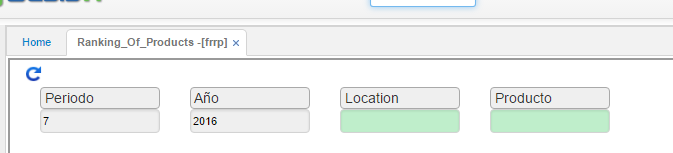
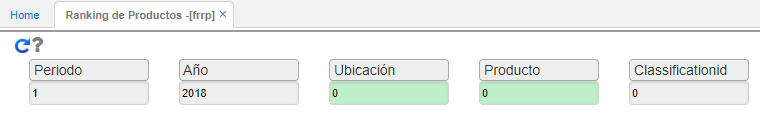
frrp

diff --git a/Operacion/scm/facturacion/freporte/frrp.md b/Operacion/scm/facturacion/freporte/frrp.md
@@ -11,3 +11,14 @@ Esta opción consolida la facturación efectuada en los respectivos periodos o m
 
 ![](frrp1.png)
 
+**Periodo:** si se requiere consultar por periodo, ingresar el mes requerido.  
+**Año:** ingresar el año de consulta.  
+**Ubicación:** ingresar la ubicación de donde se desea consultar los productos.  
+**Producto:** si la consulta es específica de un producto, ingresar o seleccionar del zoom el ID del mismo.  
+**Clasificación:** si se requiere consultar los productos por clasificación.  
+
+![](frrp2.png)
+
+Reporte exportado en PDF.  
+
+![](frrp3.png)
